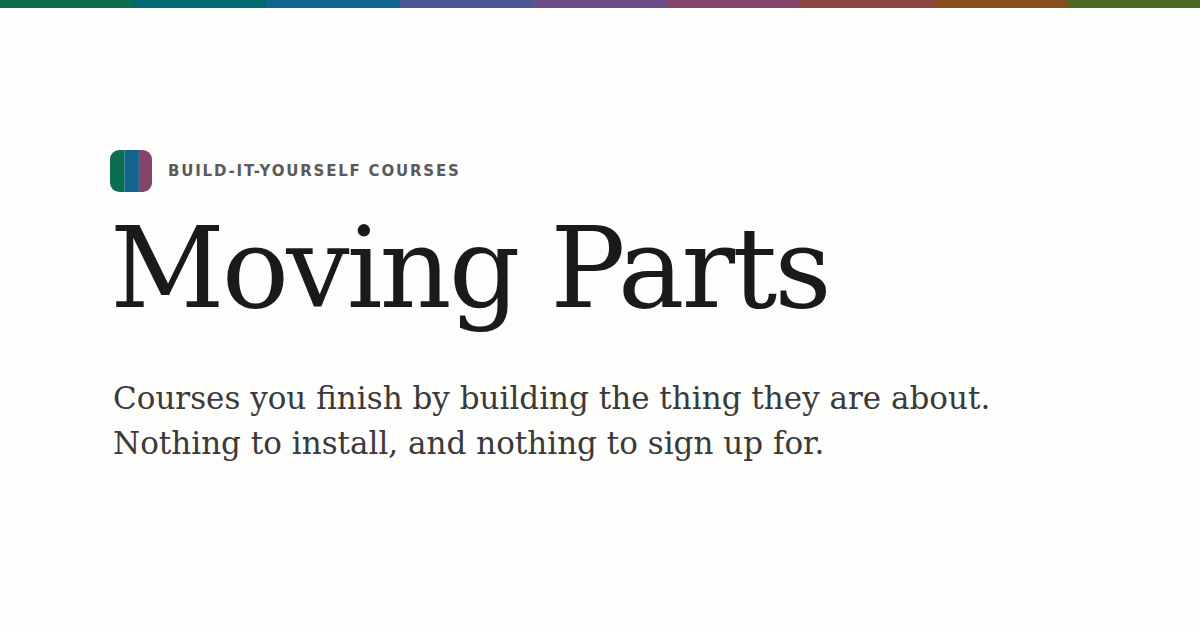
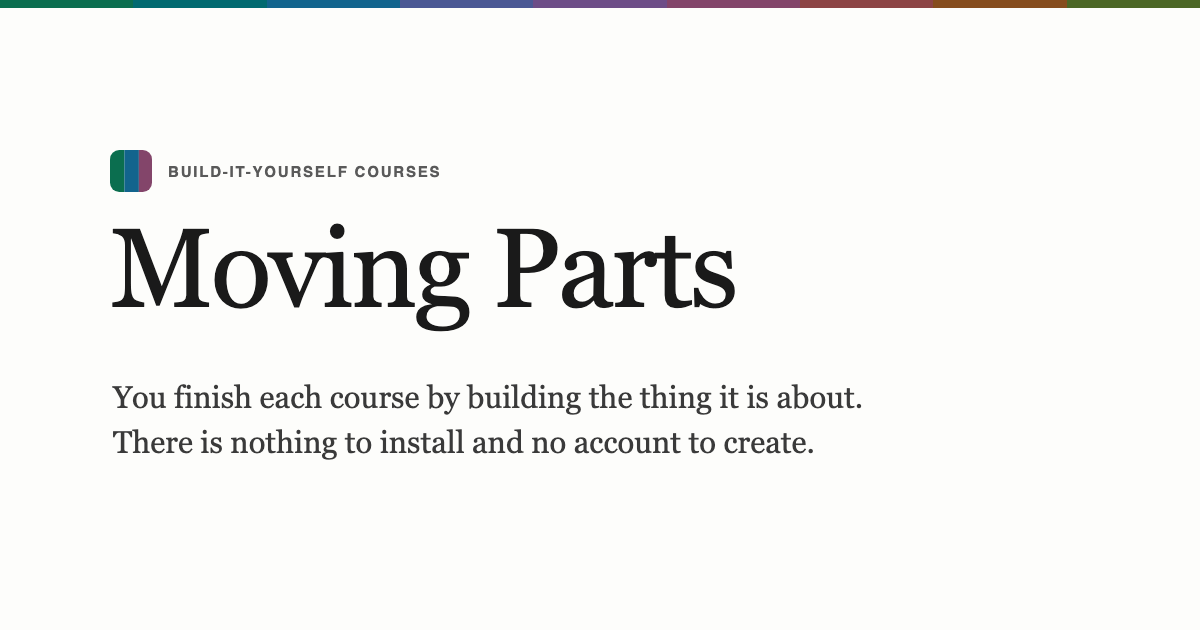
Refine course descriptions and improve social card HTML for clarity and consistency

Changed region(s): [[0.0925, 0.3317, 0.7092, 0.5429], [0.0925, 0.6032, 0.8325, 0.7238], [0.1233, 0.2413, 0.37, 0.3016]]

diff --git a/site/index.html b/site/index.html
@@ -4,7 +4,7 @@
 		<meta charset="UTF-8" />
 		<meta name="viewport" content="width=device-width, initial-scale=1.0" />
 		<title>Moving Parts</title>
-		<meta name="description" content="A series of courses you finish by building the thing they are about. Read a little, manipulate live figures, and write the real code in the page." />
+		<meta name="description" content="You finish each course by building the thing it is about: you read a little, manipulate live figures, and write the real code in the page." />
 		<meta name="theme-color" content="#1a1a1a" />
 		<!-- The series mark, inline so the tab has an icon without costing a
          request. Three bands of the accent family: the family IS the series
@@ -13,7 +13,7 @@
 
          The mark is a literal everywhere it is drawn: here, in the masthead
          below, and in tools/og_card.html, because the social card is
-         rendered to a PNG at author time. A favicon and a screenshot are both
+		 rendered to a PNG before deployment. A favicon and a screenshot are both
          copies no component can generate, which is what tools/check_brand.py
          is for: it finds every drawing and asserts they still agree, so the
          number of them is something it counts rather than something a comment
@@ -31,27 +31,25 @@
          checks that the four spellings of it still agree.
 
          This is the index, so it is the page most likely to be the one that
-         gets pasted. Regenerate the image with bash tools/make_og_image.sh. -->
+		 gets pasted. The deploy workflow regenerates the image with
+		 bash tools/make_og_image.sh. -->
 		<meta property="og:type" content="website" />
 		<meta property="og:site_name" content="Moving Parts" />
 		<meta property="og:url" content="https://pavolc.github.io/moving-parts/" />
 		<meta property="og:title" content="Moving Parts" />
 		<meta
 			property="og:description"
-			content="Courses you finish by building the thing they are about. Read a little, manipulate live figures, and write the real code in the page. No installs, no accounts."
+			content="You finish each course by building the thing it is about: you read a little, manipulate live figures, and write the real code in the page. There is nothing to install and no account to create."
 		/>
 		<meta property="og:image" content="https://pavolc.github.io/moving-parts/og-image.png" />
 		<meta property="og:image:width" content="1200" />
 		<meta property="og:image:height" content="630" />
-		<meta
-			property="og:image:alt"
-			content="The Moving Parts wordmark in large serif type under a rule of the nine accent hues, beside the series mark and the words build-it-yourself courses. Below it: courses you finish by building the thing they are about, and nothing to install or sign up for."
-		/>
+		<meta property="og:image:alt" content="Moving Parts is a series of courses you finish by building the thing they are about, with nothing to install and no account to create." />
 		<link rel="canonical" href="https://pavolc.github.io/moving-parts/" />
 
 		<meta name="twitter:card" content="summary_large_image" />
 		<meta name="twitter:title" content="Moving Parts" />
-		<meta name="twitter:description" content="Courses you finish by building the thing they are about. No installs, no accounts." />
+		<meta name="twitter:description" content="You finish each course by building the thing it is about. There is nothing to install and no account to create." />
 		<meta name="twitter:image" content="https://pavolc.github.io/moving-parts/og-image.png" />
 		<style>
 			/* ------------------------------------------------------------------
@@ -457,7 +455,7 @@
 					<span class="eyebrow">Build-it-yourself courses</span>
 				</p>
 				<h1>Moving Parts</h1>
-				<p class="tagline">A series of courses you finish by building the thing they are about. Read a little, manipulate live figures, and write the real code in the page.</p>
+				<p class="tagline">You finish each course by building the thing it is about: you read a little, manipulate live figures, and write the real code in the page.</p>
 			</header>
 
 			<main>
@@ -473,48 +471,41 @@
 								<h3 class="course-title">Neural Networks</h3>
 							</div>
 							<p class="course-what">
-								Ten modules from one neuron to a network that reads handwritten digits, then to why depth breaks and how to point the thing at data of your own. You write the
-								feedforward pass, gradient descent and backpropagation yourself, and a numerical gradient check tells you whether they are right to one part in ten million.
+								The ten modules take you from one neuron to a network that reads handwritten digits, then show you why depth breaks and how to point the thing at data of your own. You
+								write the feedforward pass, gradient descent and backpropagation yourself, and a numerical gradient check tells you whether they are right to one part in ten million.
 							</p>
 							<p class="course-meta">
-								<span><b>You write</b> 9 exercises, checked by 52 tests</span>
-								<span><b>Needs</b> Python and high-school algebra</span>
+								<span><b>You write</b> code for 9 exercises, checked by 52 tests</span>
+								<span><b>Assumes</b> basic Python and high-school algebra</span>
 							</p>
 						</a>
 					</li>
 				</ul>
-				<p class="count">One course so far. The next one will appear here.</p>
+				<p class="count">The series has one course so far.</p>
 
 				<h2>What a course is</h2>
 				<ul class="facts">
-					<li>
-						<b>The code really runs.</b> An editor in the page sends what you write to a real language runtime compiled to WebAssembly, off the main thread, so a training run never freezes
-						the tab.
-					</li>
-					<li><b>Nothing to install, and nothing to sign up for.</b> No server, no account. The only thing that leaves your machine is the runtime download, once.</li>
-					<li><b>Your work lives in your browser.</b> Editor contents, revealed hints and passed marks are stored locally, and every course can save them to a file and load them back.</li>
-					<li>
-						<b>Nothing is locked.</b> Every module is open from the start. What finishing an exercise unlocks is the panel that runs on your own code, because there is nothing to run until
-						the code exists.
-					</li>
+					<li><b>Your code runs in the page</b> through a real language runtime compiled to WebAssembly and kept off the main thread, so a training run never freezes the tab.</li>
+					<li><b>There is nothing to install or sign up for</b> because the runtime downloads once and runs in the browser rather than on a server.</li>
+					<li><b>The browser stores your work locally</b>, including editor contents, revealed hints and passed marks, and you can save it to a file and load it back.</li>
+					<li><b>Every module is open from the start</b>, and finishing an exercise only enables the panel that runs your code.</li>
 				</ul>
 
 				<h2>How these are made</h2>
 				<p>
-					Each course is written against one reader who does not know the topic, which in practice means it is debugged rather than authored: the reader gets lost, says where, and the
-					passage is rebuilt around what went wrong. Every such fix also leaves a rule behind, so the next course starts from the last one's failures rather than repeating them.
+					I write and debug each course with one reader who does not know the topic. When they get lost, they tell me where, and I rebuild the passage around what went wrong. Each fix
+					becomes a rule for the next course.
 				</p>
 				<p>
-					Those rules are extracted and public. The kit is the conventions with the topic taken out, the process that produced them, the incidents behind them, and this visual identity:
-					<a href="https://github.com/PavolC/neural-nets/tree/main/course-kit">the course kit</a>.
+					I publish those rules in <a href="https://github.com/PavolC/neural-nets/tree/main/course-kit">the course kit</a>, along with the process that produced them, the mistakes behind
+					them, and the visual identity used here.
 				</p>
 			</main>
 
 			<footer>
 				<p>
-					Built by <a href="https://github.com/PavolC">Pavol Chvala</a>. Each course carries its own sources and licence. Neural Networks adapts Michael A. Nielsen's
-					<em>Neural Networks and Deep Learning</em>, so its course content follows that book's CC BY-NC 3.0 terms; the software it runs on, and the course kit, are open source under MIT and
-					CC BY 4.0.
+					Built by <a href="https://github.com/PavolC">Pavol Chvala</a>. Neural Networks adapts Michael A. Nielsen's <em>Neural Networks and Deep Learning</em>, so its course content follows
+					that book's CC BY-NC 3.0 terms. The software it runs on is open source under MIT, while the course kit is published under CC BY 4.0.
 				</p>
 			</footer>
 		</div>

diff --git a/tools/og_card.html b/tools/og_card.html
@@ -1,7 +1,9 @@
 <!doctype html>
 <html>
-<head><meta charset="utf-8"><style>
-  /* The series social card, 1200x630, screenshotted to site/og-image.png by
+	<head>
+		<meta charset="utf-8" />
+		<style>
+			/* The series social card, 1200x630, screenshotted to site/og-image.png by
      tools/make_og_image.sh.
 
      A rendered page rather than a drawn image, for the same reason the rest of
@@ -9,9 +11,8 @@
      type roles, so a change to those reaches it. tools/check_brand.py asserts
      that the mark here is still the page's three hues in the page's order.
 
-     It is type and one rule, and nothing else. What it says is what the page
-     says, in the page's own sentences; there is no claim on it that the page
-     does not already make in prose, and no number that could go stale. An
+      It is type and one rule, and nothing else. Every claim on it is already
+      made by the page in prose, and there is no number that could go stale. An
      earlier version of this card had three colour-coded pills, an accent-
      coloured phrase in the middle of the tagline, and the mark blown up to
      280px with two empty tiles fanned behind it to suggest more were coming.
@@ -21,66 +22,121 @@
      DejaVu leads both stacks because this renders in a headless Chromium on
      Linux, which has no Georgia. Every colour is a literal, the greys
      included, because nothing in the page's stylesheet reaches a file that is
-     rendered at author time; the nine hues and the mark are the ones
+    rendered for deployment; the nine hues and the mark are the ones
      check_brand.py compares. */
-  * { margin:0; padding:0; box-sizing:border-box; }
-  html,body { width:1200px; height:630px; overflow:hidden; }
-  body { background:#fdfdfb; color:#1a1a1a; font-family:"DejaVu Serif",Georgia,serif; position:relative; }
+			* {
+				margin: 0;
+				padding: 0;
+				box-sizing: border-box;
+			}
+			html,
+			body {
+				width: 1200px;
+				height: 630px;
+				overflow: hidden;
+			}
+			body {
+				background: #fdfdfb;
+				color: #1a1a1a;
+				font-family: "DejaVu Serif", Georgia, serif;
+				position: relative;
+			}
 
-  /* The whole family across the top, as on the page, and the only colour on
+			/* The whole family across the top, as on the page, and the only colour on
      the card: the family IS the series identity, and unlike a single hue it
      does not borrow any one course's. Nine flex children so it grows a
      segment when the family does. */
-  .rule { position:absolute; top:0; left:0; right:0; height:8px; display:flex; }
-  .rule span { flex:1; }
+			.rule {
+				position: absolute;
+				top: 0;
+				left: 0;
+				right: 0;
+				height: 8px;
+				display: flex;
+			}
+			.rule span {
+				flex: 1;
+			}
 
-  /* The mark and the series note. No wordmark in this row: the heading below
+			/* The mark and the series note. No wordmark in this row: the heading below
      is the series name, and a wordmark above it would print the name twice,
      which is the omission the page's masthead makes for the same reason. */
-  .brandrow { position:absolute; top:150px; left:110px; display:flex; align-items:center; gap:16px; }
-  .tile { width:42px; height:42px; flex:none; }
-  .note { font-family:"DejaVu Sans",sans-serif; font-size:15px; font-weight:600;
-          letter-spacing:.12em; text-transform:uppercase; color:#5a5a5a; }
+			.brandrow {
+				position: absolute;
+				top: 150px;
+				left: 110px;
+				display: flex;
+				align-items: center;
+				gap: 16px;
+			}
+			.tile {
+				width: 42px;
+				height: 42px;
+				flex: none;
+			}
+			.note {
+				font-family: "DejaVu Sans", sans-serif;
+				font-size: 15px;
+				font-weight: 600;
+				letter-spacing: 0.12em;
+				text-transform: uppercase;
+				color: #5a5a5a;
+			}
 
-  h1 { position:absolute; top:212px; left:110px; font-size:112px; line-height:1;
-       letter-spacing:-.026em; font-weight:400; }
+			h1 {
+				position: absolute;
+				top: 212px;
+				left: 110px;
+				font-size: 112px;
+				line-height: 1;
+				letter-spacing: -0.026em;
+				font-weight: 400;
+			}
 
-  /* Both sentences are the page's, unchanged. The 980px is wide enough that
-     the first one holds a single line at this size: a wrapped first line
-     leaves "about." alone under the tagline and reads as an accident. */
-  .sub { position:absolute; top:376px; left:113px; font-size:31px; line-height:1.45;
-         color:#3a3a3a; width:980px; }
-</style></head>
-<body>
-  <div class="rule">
-    <span style="background:#0b6e4f"></span>
-    <span style="background:#016a70"></span>
-    <span style="background:#12648d"></span>
-    <span style="background:#4b5894"></span>
-    <span style="background:#6d4d87"></span>
-    <span style="background:#83456a"></span>
-    <span style="background:#8c4445"></span>
-    <span style="background:#864d1e"></span>
-    <span style="background:#4c6726"></span>
-  </div>
+			/* Both sentences make claims already made by the page. The 980px is wide
+     enough that the first one holds a single line at this size: a wrapped
+     first line leaves "about." alone and reads as an accident. */
+			.sub {
+				position: absolute;
+				top: 376px;
+				left: 113px;
+				font-size: 31px;
+				line-height: 1.45;
+				color: #3a3a3a;
+				width: 980px;
+			}
+		</style>
+	</head>
+	<body>
+		<div class="rule">
+			<span style="background: #0b6e4f"></span>
+			<span style="background: #016a70"></span>
+			<span style="background: #12648d"></span>
+			<span style="background: #4b5894"></span>
+			<span style="background: #6d4d87"></span>
+			<span style="background: #83456a"></span>
+			<span style="background: #8c4445"></span>
+			<span style="background: #864d1e"></span>
+			<span style="background: #4c6726"></span>
+		</div>
 
-  <div class="brandrow">
-    <svg class="tile" viewBox="0 0 32 32">
-      <clipPath id="c"><rect width="32" height="32" rx="7"/></clipPath>
-      <g clip-path="url(#c)">
-        <rect width="11" height="32" x="0"  fill="#0b6e4f"/>
-        <rect width="11" height="32" x="11" fill="#12648d"/>
-        <rect width="10" height="32" x="22" fill="#83456a"/>
-      </g>
-    </svg>
-    <span class="note">build-it-yourself courses</span>
-  </div>
+		<div class="brandrow">
+			<svg class="tile" viewBox="0 0 32 32">
+				<clipPath id="c"><rect width="32" height="32" rx="7" /></clipPath>
+				<g clip-path="url(#c)">
+					<rect width="11" height="32" x="0" fill="#0b6e4f" />
+					<rect width="11" height="32" x="11" fill="#12648d" />
+					<rect width="10" height="32" x="22" fill="#83456a" />
+				</g>
+			</svg>
+			<span class="note">build-it-yourself courses</span>
+		</div>
 
-  <h1>Moving&nbsp;Parts</h1>
+		<h1>Moving&nbsp;Parts</h1>
 
-  <p class="sub">
-    Courses you finish by building the thing they are about.<br>
-    Nothing to install, and nothing to sign up for.
-  </p>
-</body>
+		<p class="sub">
+			You finish each course by building the thing it is about.<br />
+			There is nothing to install and no account to create.
+		</p>
+	</body>
 </html>

diff --git a/README.md b/README.md
@@ -76,9 +76,10 @@ The same tool checks the two greys the page sets text in against AA. It carried 
 `#767a77`, for the card meta lines and the count: 4.28:1 on the page ground, below AA at
 the 0.78rem those are set in, and nothing here would have said so.
 
-Two strings are the kit's rather than this page's, and are worth keeping equal to it by
-hand: the eyebrow is `SERIES.note` and the tagline opens with `SERIES.what`. A reader who
-crosses over from a course should not meet a third phrasing of what the series is.
+Two pieces of copy come from the kit rather than this page: the eyebrow is `SERIES.note`,
+and the tagline turns `SERIES.what` into a complete sentence before naming the three
+forms of interaction. A reader who crosses over from a course should not meet a third
+description of what the series is.
 
 Light only, matching the courses. That is their standing decision rather than an omission
 here: an index that inverted while its courses did not would be the odd one out.
@@ -90,12 +91,12 @@ here: an index that inverted while its courses did not would be the odd one out.
 share of this page — the page most likely to be the one that gets pasted — renders as a
 line of grey text.
 
-It is a rendered HTML page (`tools/og_card.html`, screenshotted by
+It is a rendered HTML page (`tools/og_card.html`, screenshotted during deployment by
 `bash tools/make_og_image.sh`) rather than a drawn image, so the card stays made of the
 same things as the page: the family, the mark and the type roles.
 
-**It is type and one rule, and it makes no argument.** Every sentence on it is one the
-page already makes, in the page's own words. The first version had three colour-coded
+**It is type and one rule, and it makes no argument.** Every claim on it is one the page
+already makes. The first version had three colour-coded
 pills of benefits, an accent-coloured phrase in the middle of the tagline, and the mark
 blown up with two empty tiles fanned behind it to suggest more were coming — which is a
 landing page, drawn by someone with one course to show. A series this small has nothing
@@ -111,7 +112,7 @@ Two things about it fail silently and are checked rather than trusted:
   hand-maintained list, in a PNG, where nothing can see it go stale.
 
 The card renders in a headless Chromium, which has no Georgia, so DejaVu leads both font
-stacks. It is the one surface whose type is resolved at author time.
+stacks. It is the one surface whose type is resolved when the deployment renders it.
 
 ## The checks
 
